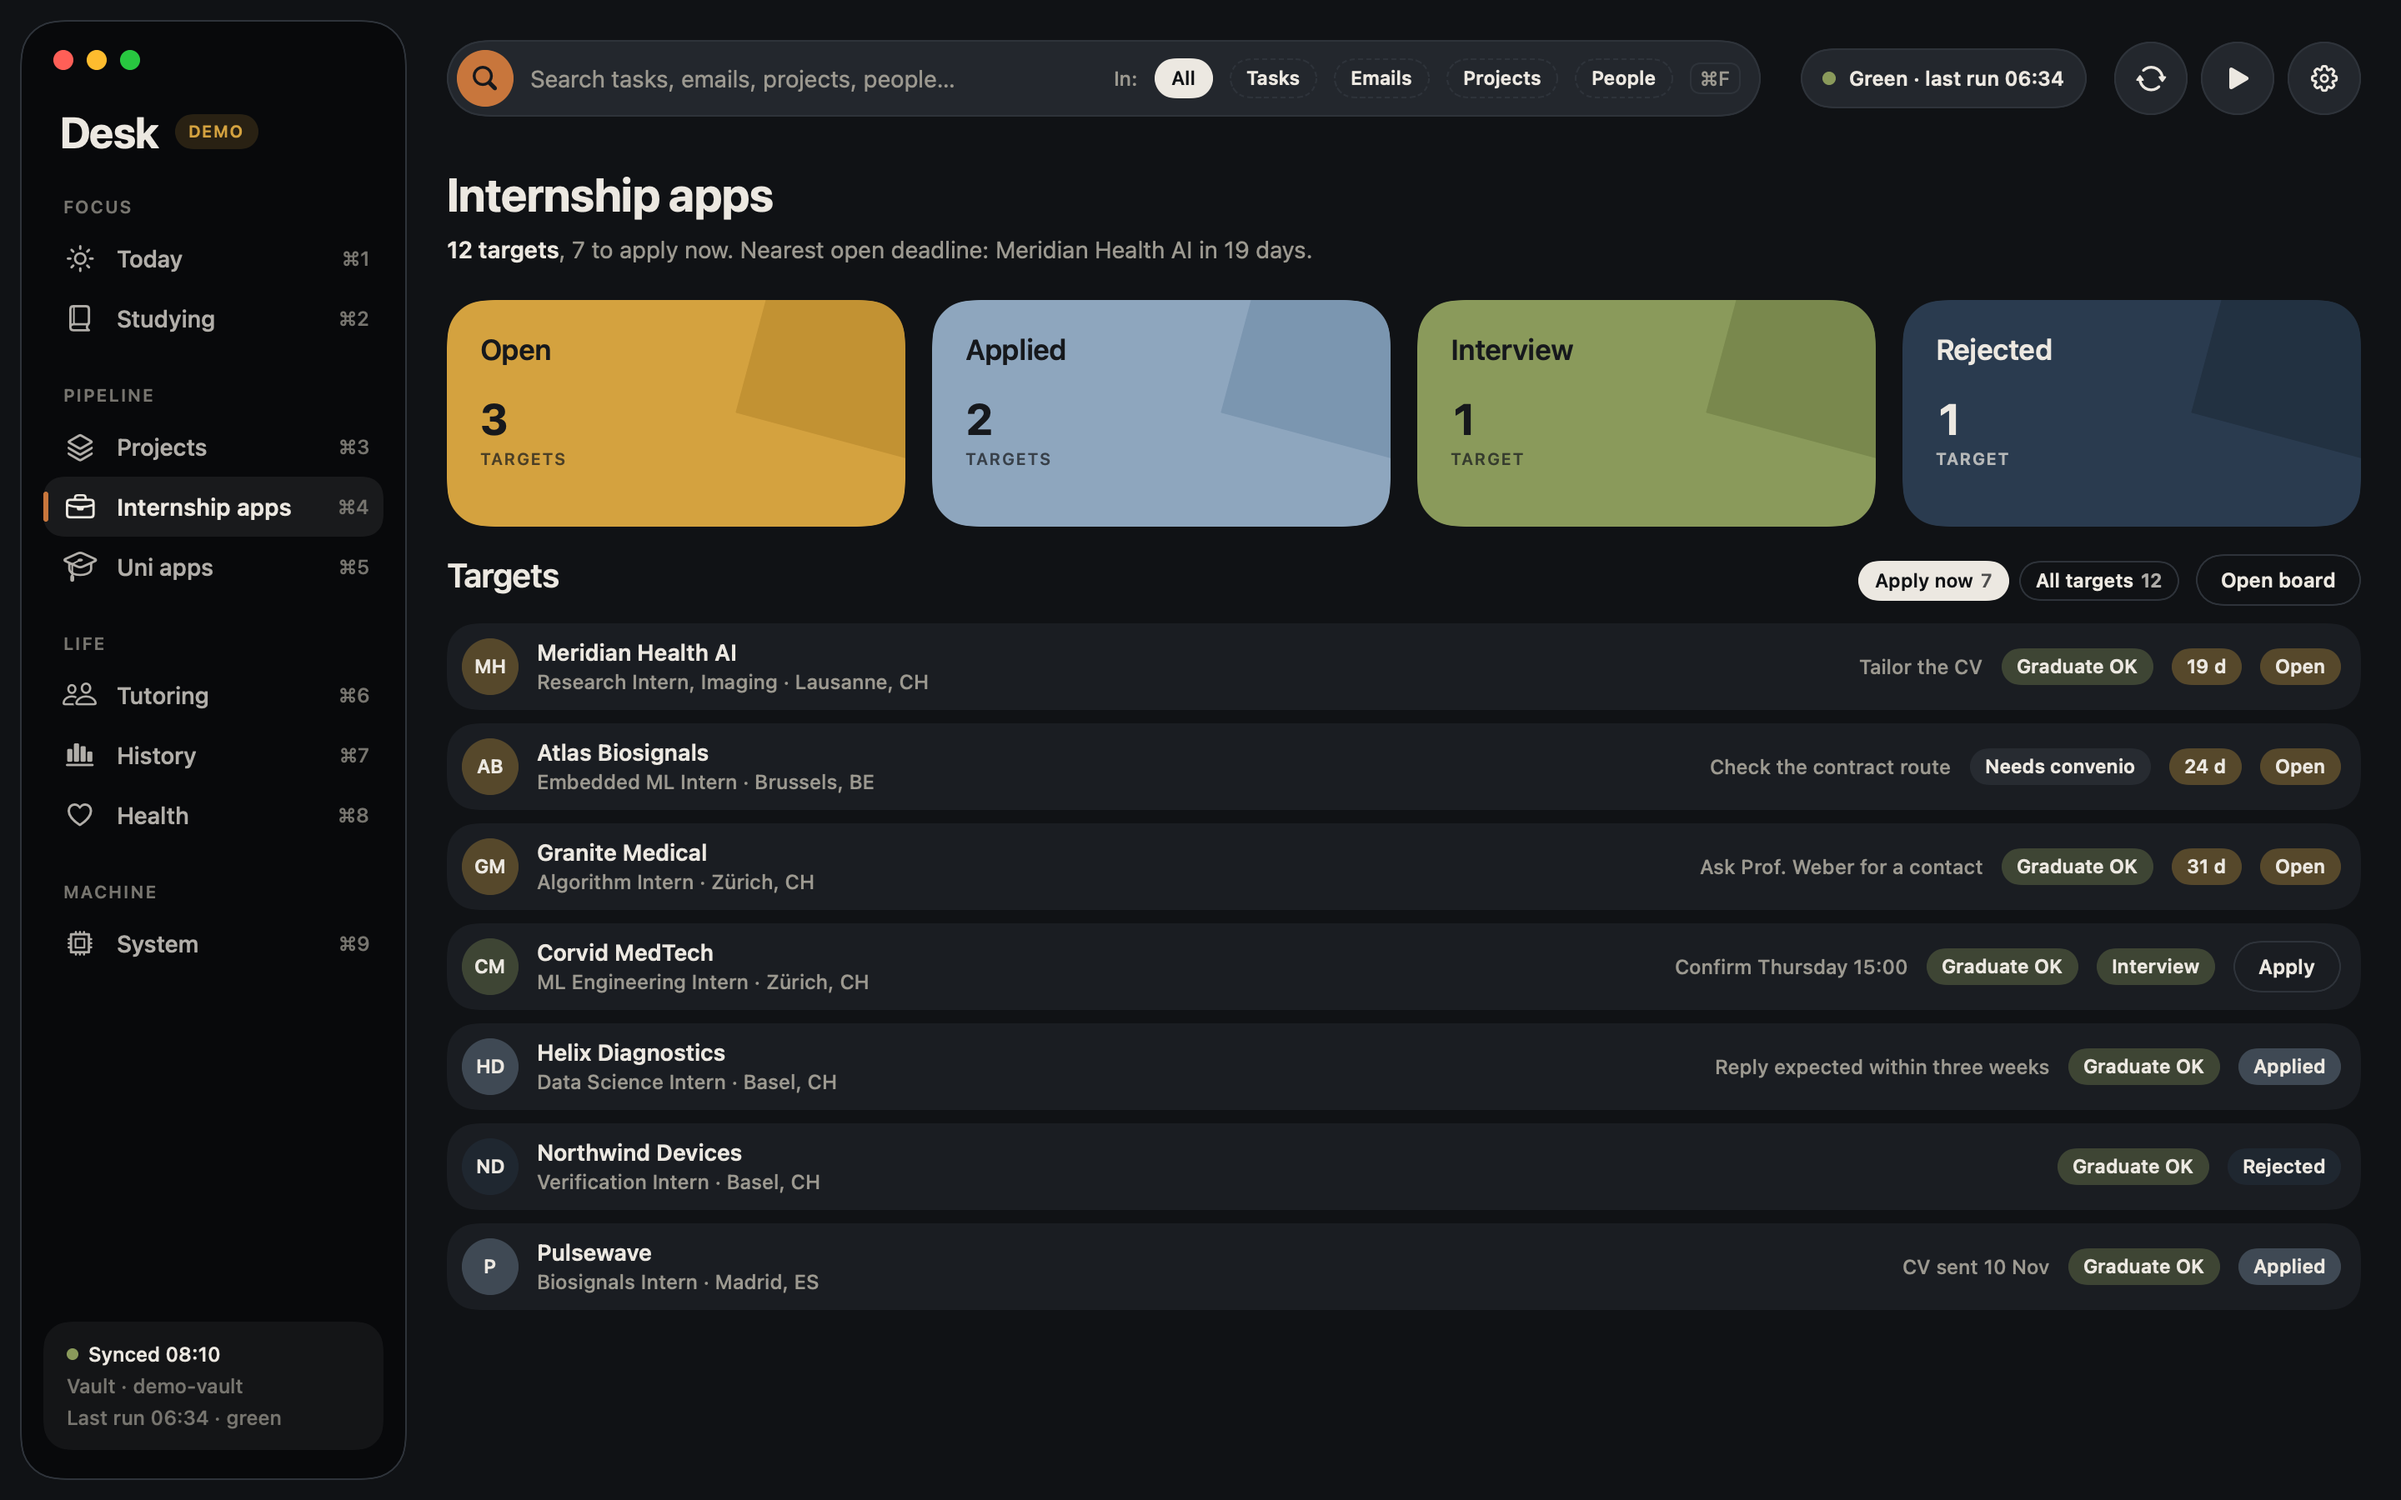
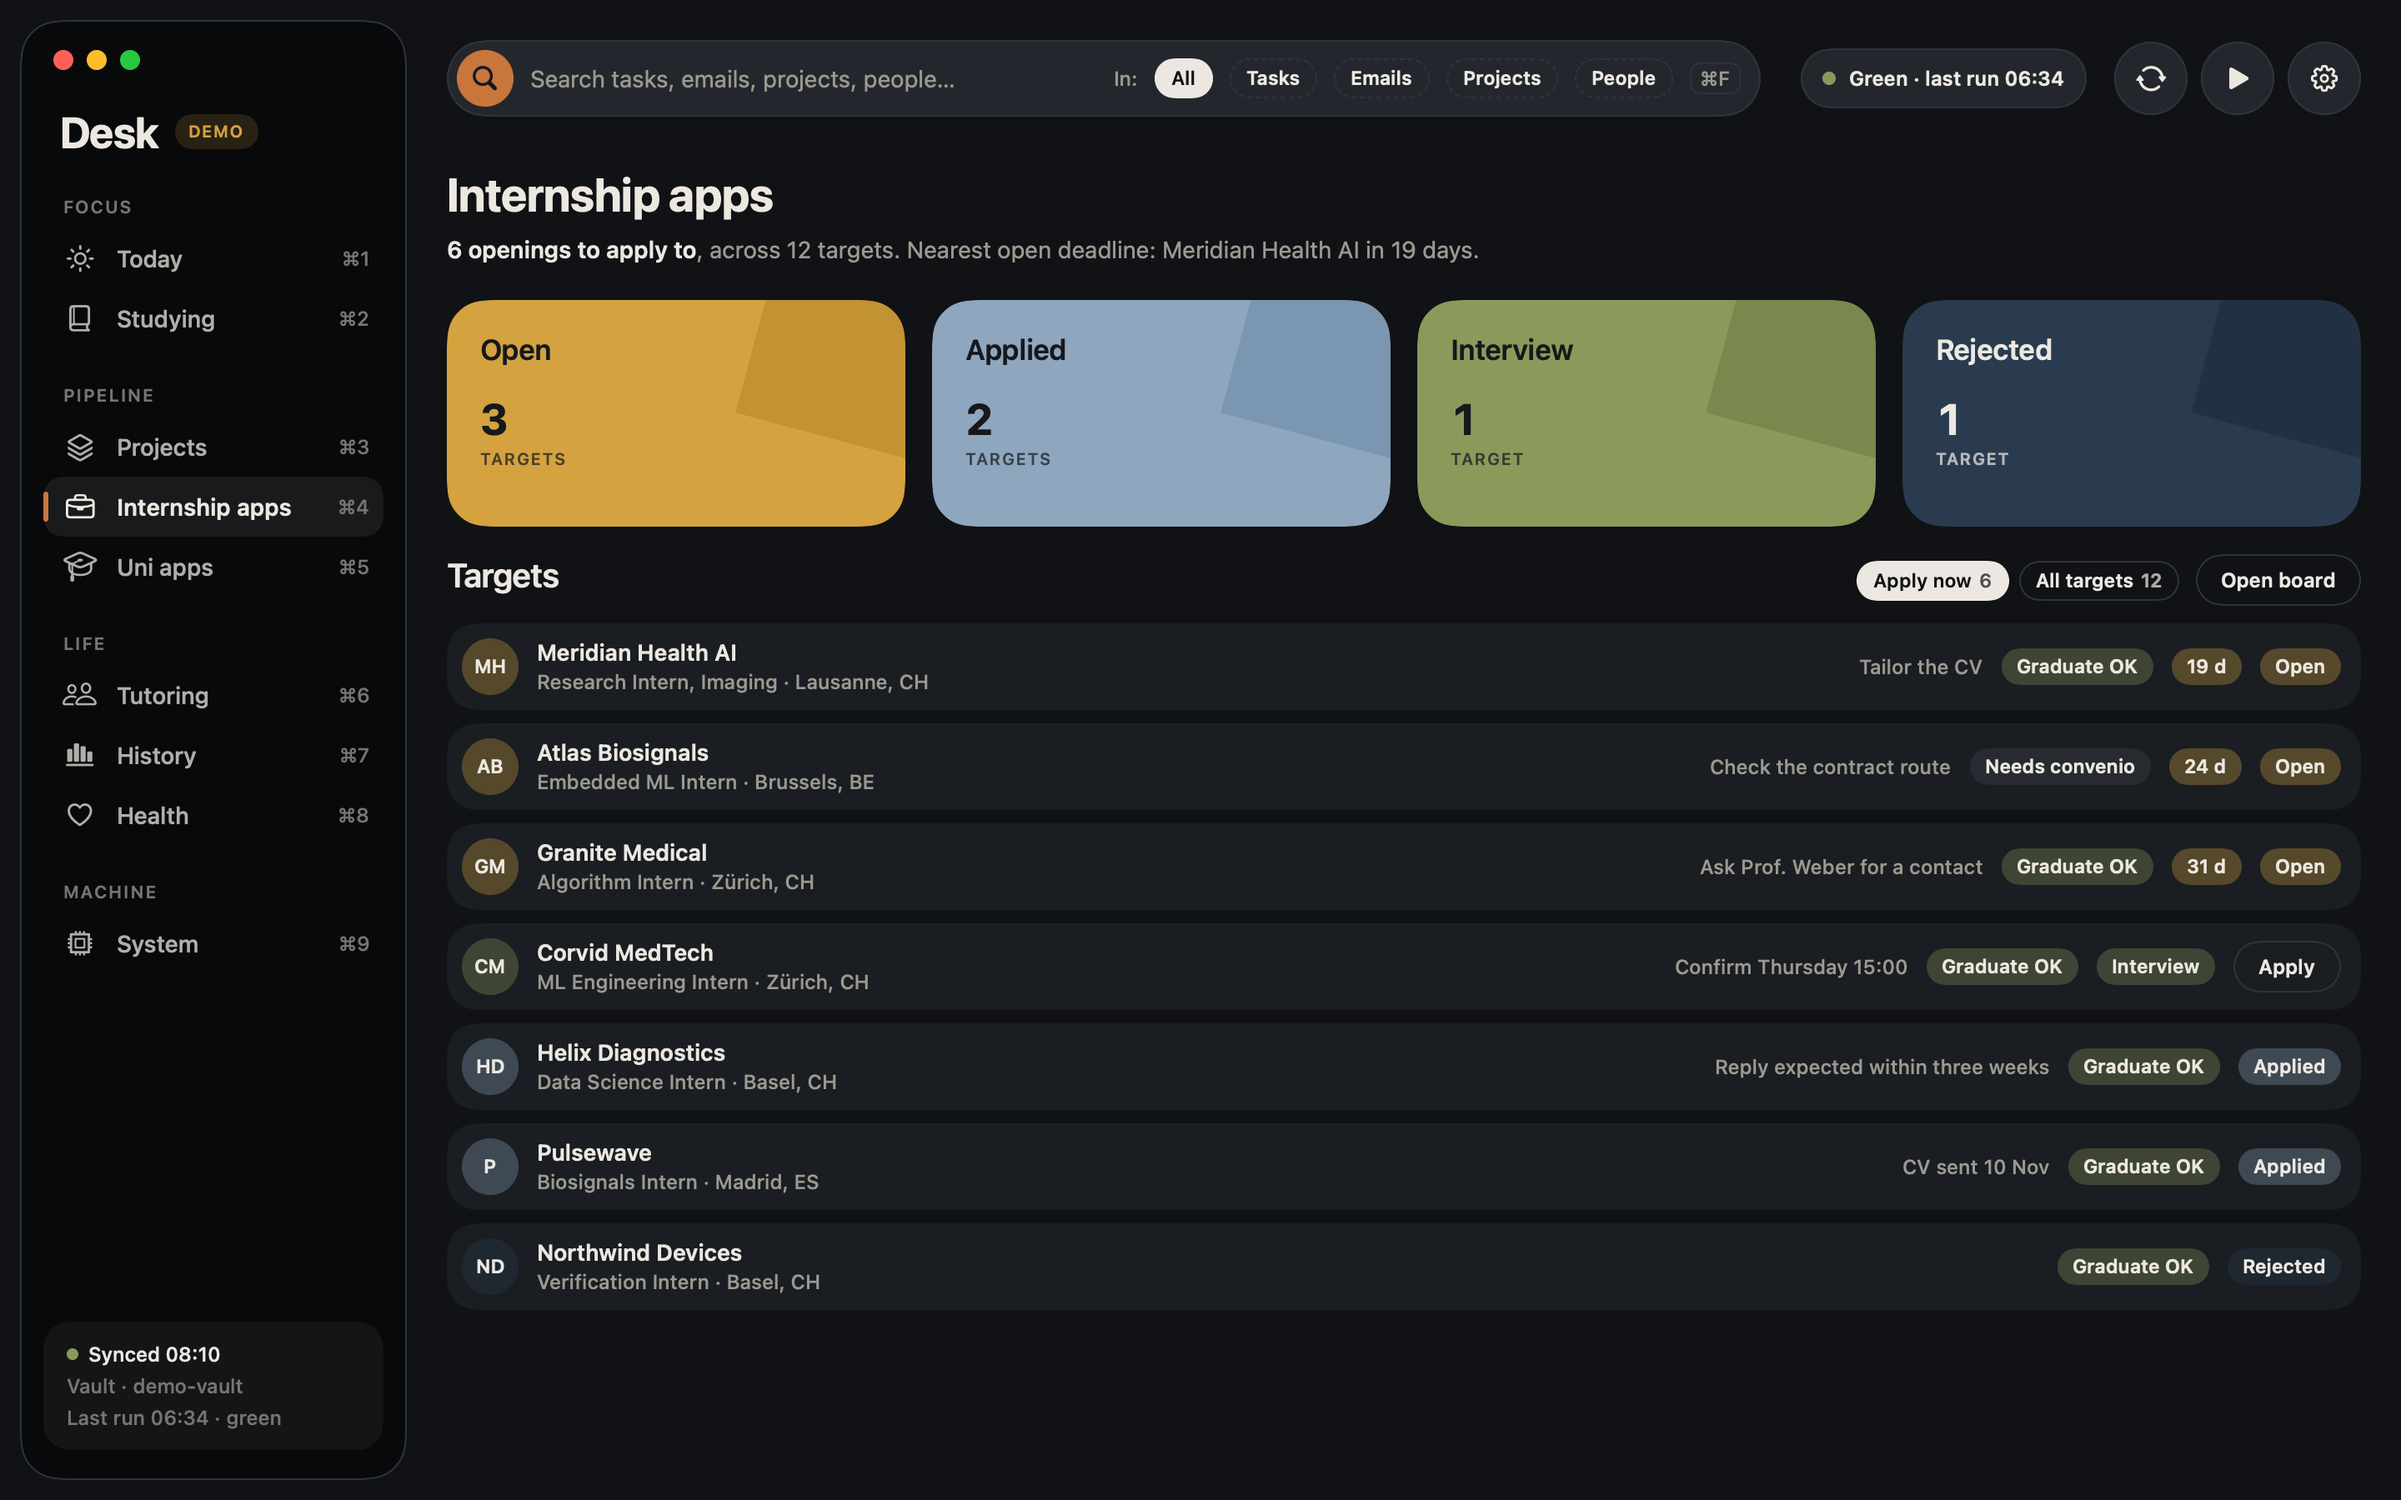
Internship apps: the board's targets, priorities and Apply now order

diff --git a/Sources/Desk/Model/Derived+Pipeline.swift b/Sources/Desk/Model/Derived+Pipeline.swift
@@ -33,9 +33,28 @@ extension Derived {
 
     static let targetStatuses = ["open", "applied", "interview", "rejected"]
 
-    func targets(status: String) -> [Target] { (data.targets ?? []).filter { $0.status == status } }
-    var applyNow: [Target] { sortedTargets((data.targets ?? []).filter { $0.list == "apply_now" }) }
-    var allTargets: [Target] { sortedTargets(data.targets ?? []) }
+    /// The status cards count applications: the openings when there are any, else every target.
+    func targets(status: String) -> [Target] {
+        let openings = (data.targets ?? []).filter { $0.list == "apply_now" }
+        return (openings.isEmpty ? data.targets ?? [] : openings).filter { $0.status == status }
+    }
+
+    /// Openings to apply to first, nearest deadline first; then interviews and applications; closed ones last.
+    /// Ties keep the board's own order.
+    var applyNow: [Target] {
+        let rank = ["open": 0, "interview": 1, "offer": 1, "applied": 2, "rejected": 3]
+        return (data.targets ?? []).filter { $0.list == "apply_now" }.sorted {
+            (rank[$0.status] ?? 0, $0.deadline?.date ?? .distantFuture, $0.order ?? 0, $0.company)
+                < (rank[$1.status] ?? 0, $1.deadline?.date ?? .distantFuture, $1.order ?? 0, $1.company)
+        }
+    }
+
+    /// The board's targets (companies and labs), priority A first, then by place; without the board, every target.
+    var allTargets: [Target] {
+        let targets = (data.targets ?? []).filter { $0.list != "apply_now" }
+        guard !targets.isEmpty, targets.contains(where: { $0.priority != nil }) else { return sortedTargets(data.targets ?? []) }
+        return targets.sorted { ($0.priority ?? "Z", $0.order ?? 0, $0.company) < ($1.priority ?? "Z", $1.order ?? 0, $1.company) }
+    }
 
     private func sortedTargets(_ targets: [Target]) -> [Target] {
         targets.sorted { ($0.deadline?.date ?? .distantFuture, $0.company) < ($1.deadline?.date ?? .distantFuture, $1.company) }
@@ -45,7 +64,9 @@ extension Derived {
 
     var internshipsSummary: [Phrase] {
         guard let targets = data.targets else { return [] }
-        var phrases = [Phrase(text: "\(targets.count) targets", strong: true), Phrase(text: ", \(applyNow.count) to apply now. ")]
+        let live = applyNow.filter { $0.status != "rejected" }.count
+        var phrases = [Phrase(text: "\(live) openings to apply to", strong: true),
+                       Phrase(text: ", across \(Self.plural(allTargets.count, "target")). ")]
         if let next = sortedTargets(targets.filter { $0.status == "open" && (daysLeft($0.deadline) ?? -1) >= 0 }).first, let days = daysLeft(next.deadline) {
             phrases.append(Phrase(text: "Nearest open deadline: \(next.company) in \(Self.plural(days, "day"))."))
         }

diff --git a/Sources/Desk/Model/Parsers.swift b/Sources/Desk/Model/Parsers.swift
@@ -413,19 +413,22 @@ enum Parse {
             guard let company = string(doc, ["company", "name", "organisation", "organization", "org", "lab"]) else { return nil }
             let raw = string(doc, ["status"])
             let notes = string(doc, ["notes", "note"])
+            // A target has no job title: its track and kind ("MedTech · Company") say what it is.
+            let role = string(doc, ["title", "role", "position"])
+                ?? [string(doc, ["track"]), string(doc, ["kind"])].compactMap { $0 }.joined(separator: " · ").nilIfEmpty
             return Target(
                 id: "\(list)-\(string(doc, ["id"]) ?? String(index))", company: company,
-                role: string(doc, ["title", "role", "position"]), city: string(doc, ["location", "city"]), country: string(doc, ["country"]),
+                role: role, city: string(doc, ["location", "place", "city"]), country: string(doc, ["country"]),
                 list: list, status: boardStatus(raw ?? ""), graduateOk: string(doc, ["eligType", "elig_type"]).map { $0.lowercased() == "graduate" },
                 deadline: string(doc, ["deadline", "closes"]).flatMap { looseDate($0, cal) },
                 next: notes.map { String($0.split(separator: "\n").first ?? "") }, url: string(doc, ["url", "link", "careers", "website"]),
                 statusLabel: raw, start: string(doc, ["start"]), duration: string(doc, ["duration"]), language: string(doc, ["language"]),
-                eligibility: string(doc, ["eligibility"]), fit: string(doc, ["fit", "why"]), notes: notes
+                eligibility: string(doc, ["eligibility"]), fit: string(doc, ["fit", "why"]), notes: notes,
+                priority: string(doc, ["priority"]), order: string(doc, ["order", "placeOrder"]).flatMap(Double.init) ?? Double(index)
             )
         }
-        let openings = docs("openings").enumerated()
-            .sorted { (Double(string($0.element, ["order"]) ?? "") ?? Double($0.offset)) < (Double(string($1.element, ["order"]) ?? "") ?? Double($1.offset)) }
-            .compactMap { target($0.element, index: $0.offset, list: "apply_now") }
+        let openings = docs("openings").enumerated().compactMap { target($0.element, index: $0.offset, list: "apply_now") }
+            .sorted { ($0.order ?? 0) < ($1.order ?? 0) }
         let targets = docs("targets").enumerated().compactMap { target($0.element, index: $0.offset, list: "target") }
         return openings + targets
     }
@@ -512,4 +515,9 @@ enum Parse {
         flush()
         return notes.sorted { $0.date < $1.date }
     }
+}
+
+extension String {
+    /// `nil` for an empty string.
+    var nilIfEmpty: String? { isEmpty ? nil : self }
 }

diff --git a/Tests/DeskTests/LiveVaultCheck.swift b/Tests/DeskTests/LiveVaultCheck.swift
@@ -32,6 +32,8 @@ final class LiveVaultCheck: XCTestCase {
         print("LIVE tutoring money: received \(Parse.number(d.receivedThisMonth)) €, pending \(Parse.number(d.pendingAmount)) €, month end \(d.monthEnd.count), payments \(data.tutoring.payments.count), week lessons \(d.weekLessons.count), events \(d.tutoringEvents.count)")
         print("LIVE tutoring students: \(data.tutoring.students.map { "\($0.initials) level '\($0.level)' subject '\($0.subject)' \(Parse.number($0.rate)) \($0.paysBy)" })")
         print("LIVE tutoring contacts: \(data.tutoring.contacts.count), with parent \(data.tutoring.contacts.values.filter { !$0.parent.isEmpty }.count), with phone \(data.tutoring.contacts.values.filter { !$0.phone.isEmpty }.count); notes \(data.tutoring.notes.count); lessons rows \(data.tutoring.lessons.count)")
+        print("LIVE internships: \(d.applyNow.count) openings (\(d.applyNow.filter { $0.status != "rejected" }.count) live, \(d.applyNow.filter { $0.url != nil }.count) with a link), \(d.allTargets.count) targets; cards \(Derived.targetStatuses.map { "\($0) \(d.targets(status: $0).count)" })")
+        print("LIVE internships summary: \(d.internshipsSummary.map(\.text).joined())")
         print("LIVE missing or unreadable: \(data.issues.keys.sorted())")
         // What one tick costs on the main thread: re-reading the vault and deriving the Studying tab.
         let runs = 10

diff --git a/Sources/Desk/Tabs/Pipeline/Internships.swift b/Sources/Desk/Tabs/Pipeline/Internships.swift
@@ -42,7 +42,7 @@ struct TargetList: View {
                 let shown = expanded ? rows.count : min(rows.count, t.listRows + 1)
                 SectionHeader(title: "Targets") {
                     CountedTabs(items: [
-                        .init(id: false, title: "Apply now", count: d.applyNow.count),
+                        .init(id: false, title: "Apply now", count: d.applyNow.filter { $0.status != "rejected" }.count),
                         .init(id: true, title: "All targets", count: d.allTargets.count),
                     ], selection: $all)
                     LinkButton(title: "Open board", url: Links.web(d.data.settings.links.internshipBoard))
@@ -75,6 +75,9 @@ struct TargetRow: View {
             if let next = target.next {
                 Text(verbatim: next).style(\.small, selected ? \.onAccent : \.inkMuted).lineLimit(1)
                     .frame(maxWidth: t.railWidth - t.sp32, alignment: .trailing)
+            }
+            if let priority = target.priority {
+                Chip(text: "Priority \(priority)", accent: priority == "A" ? .rust : .neutral, onAccent: selected)
             }
             if let graduate = target.graduateOk {
                 Chip(text: graduate ? "Graduate OK" : "Needs convenio", accent: graduate ? .moss : .neutral, onAccent: selected)

diff --git a/Sources/Desk/Model/Models.swift b/Sources/Desk/Model/Models.swift
@@ -238,6 +238,9 @@ struct Target: Decodable, Identifiable, Hashable {
     var eligibility: String?
     var fit: String?
     var notes: String?
+    /// The board's priority for a target ("A", "B", "C") and its order (an opening's, or a target's place).
+    var priority: String?
+    var order: Double?
 }
 
 struct Person: Decodable, Identifiable, Hashable {

diff --git a/DECISIONS.md b/DECISIONS.md
@@ -96,3 +96,4 @@ Choices made where SPEC.md and DESIGN.md are silent or disagree. Each one is the
 | 90 | 13 Nov | The importer writes `lesson-dates.csv`, one row per dated lesson. Tutoring's week shows those lessons, then only the calendar lessons still to come. Without the file, the calendar alone. | The calendar has no tutoring events, so the week was empty, while the note has every date. |
 | 91 | 13 Nov | Internship apps reads `agent/board.json`, the Internship Target Board's own export (written each morning by the agent): openings become Apply now, targets the rest. Statuses map to Desk's four by their words, and the board's own words are shown. Each row has an Apply button. | Jose wants to see every target, its status and the apply link in Desk. The board's collections stay the source; field names follow them. |
 | 92 | 13 Nov | Desk does not fetch the board itself. The morning run exports it each day to `agent/board.json`, reading it only; the morning skill writes nothing outside `agent/`. | Desk makes no network calls beyond git (CLAUDE.md), and keeping one writer per file means the agent owns that file. |
+| 93 | 13 Nov | From the board, a target's track and kind ("MedTech · Company") stand in for a job title, and its place for a city. The status cards count openings only. Apply now lists open postings first, nearest deadline first, then interviews and applications, then closed ones. All targets is sorted by priority, then place. | The board's targets are companies and labs, not applications, and "Researching" is not an application status. |

diff --git a/BUILD_NOTES.md b/BUILD_NOTES.md
@@ -148,3 +148,4 @@ It also noted that Internship apps shows four count cards (Open, Applied, Interv
 - **Internship apps** (decisions 91–92): reads the board's own export. The first export waits for claude.ai's artifact store, which was down (HTTP 502) when this was built.
 - **Found while checking the tabs:** the "Morning Desk" routine that feeds Today and System is disabled, so the last run is Thursday's. The "daily" internship scan runs on Mondays only.
 - **Checked:** 84 tests (1 opt-in skipped).
+- **First run since Thursday** (Morning Desk turned back on, 13 Nov 12:03): the board export worked, with 199 openings and 89 targets, and System is green. Email and calendar were skipped: the repo's deny rules did not load in the routine's session, so the skill left them out on purpose. The run did not commit, because Jose's own notes had uncommitted changes; Obsidian Git's backup commits them all.
